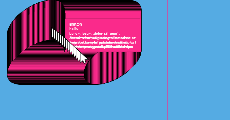
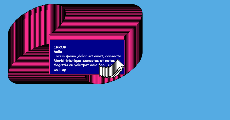
Scalability
Scalability is now uniform. Text scrolls perfectly now.

diff --git a/draw_one_frame.js b/draw_one_frame.js
@@ -1,8 +1,8 @@
-let t = 0.1;
-let trail = 144;
-let consoletext;
-let errors
-let td = 0;
+let t = 0.1;			//from 0 to 1, the length of the mouse trail that will remain active during any one frame
+let trail = 144;		//how many divisions of the trail will be visible. most accurate when it is a multiple of 24
+let consoletext;		//the text that will display in the cosnole window
+// let errors;
+let td = 0;				//should the text be drawn? 0=false 1=true. saves unnecessary drawing time
 
 function preload() {
 	consoletext = loadStrings('console');
@@ -15,17 +15,19 @@ function preload() {
 function draw_one_frame(cur_frac) {
 	background('#55abe3');
 
-	strokeWeight(2);
+	strokeWeight(height/270);
 	
 	//window
+	fill('#fa2a8b');
 	for(let i = 0; i <= trail; i++){
 		let ghost_frac = (cur_frac+=1/trail)%1;
 		if (i == trail) {td = 1;} else {td = 0;}
 		//draw the window (x position, y position, is draw text true, text scroll position)
-		drawWindow(150+ sin(1-ghost_frac*TWO_PI)*120,100+ sin(ghost_frac*TWO_PI)*100,td,floor(cur_frac*2)-1);
+		drawWindow(0.16*width + sin(1-ghost_frac*TWO_PI)*width/8, height/5 + sin(ghost_frac*TWO_PI)*height/6,td,cur_frac);
 	}
 
 	//cursor
+	strokeWeight(2);
 	strokeCap(PROJECT);
 	strokeJoin(ROUND);
 	fill("white");
@@ -35,40 +37,64 @@ function draw_one_frame(cur_frac) {
 		let cur_x = 300+200*sin(ghost_frac*TWO_PI);
 		let cur_y = 200+100*sin(ghost_frac*4*PI);
 
-		drawCursor(cur_x,cur_y);
+		drawCursor(cur_x,cur_y,width/960);
 	}
 
 	if (debugView) {
 		noFill();
-		stroke("red");
+		stroke("pink");
+		strokeWeight(1);
+		for(let i = 0.1; i <= 1; i+=1/12){
+			drawCursor(300+200*sin(i*TWO_PI),200+100*sin(i*4*PI),width/960);
+		}
+		for(let i = 0.1; i <= 1; i+=1/12){
+			drawWindow(
+			0.16*width 	+ 	sin(1-i*TWO_PI)*width/8, 
+			height/5 	+	sin(i*TWO_PI)*height/6);
+		}
+		stroke("darkred");
 		strokeWeight(4);
-		drawCursor(200,200);
-		drawWindow(100,100);
+		drawCursor(300+200*sin(TWO_PI),200+100*sin(4*PI),width/960);
+		drawWindow(0.16*width + sin(1-TWO_PI)*width/8, height/5 + sin(TWO_PI)*height/6,1,1);
 	}
 
 	//glitches
-	stroke('#fa2a8b');
-	line(700, 0, 700, 1500)
+	// stroke('#fa2a8b');
+	// line(700, 0, 700, 1500)
 }
 
 function drawWindow(x,y,td,l){
-	fill('#fa2a8b');
-	rect(x, y, 640/2, 360/2);
-	rect(x+5, y+5, 640/2-10, 36-10);
-	fill('white');
-	textSize(16);
-	textFont('Comic Sans MS');
-	textWrap(CHAR);
+	let border = width/216
+	rect(x, y, width/3, height/3);
+	rect(x+border, y+border, width/3-border*2, height/30);
+	push();
 	if (td == 1) {
+		noStroke();
+		fill('darkblue');
+		rect(x+border, y+border+height/30, width/3-border*2, height/3.4-border);
+		fill('white');
+		textSize(width/60);
+		textFont('Comic Sans MS');
+		textWrap(CHAR);
 		for (let i = 0; i <= consoletext.length; i++){
-			text(consoletext[i],x+20,y+50+i*20,580/2,250/2-i*20);
-			//skip a line for every line the text exceeds the word wrap limit for
-			i += floor(consoletext[i+l].length/38);
+			text(consoletext[i],x+width/48,y+height/10.8+i*height/27,0.3*width,height/4.3-i*height/27);
 		}
+		if (floor(l%(4/24)*100) == 0) {
+			consoletext.push(consoletext[0]);
+			consoletext.shift();
+		}
+		// for (let i = 0; i <= consoletext.length; i++){
+		// 	// text(consoletext,x+width/48,y+height/10.8+i*height/27,0.3*width,height/4.3-i*height/27);
+		// 	//skip a line for every line the text exceeds the word wrap limit for
+		// 	// i += floor(consoletext[i+l].length/38);
+
+		// }
 	}
+	pop();
 }
 
-function drawCursor(x,y){
+function drawCursor(x,y,mouseSize){
+	scale(mouseSize,mouseSize);
 	beginShape();
 	vertex(x+0,y+0);
 	vertex(x+0,y+49.55);
@@ -79,4 +105,5 @@ function drawCursor(x,y){
 	vertex(x+33.8,y+34.1);
 	vertex(x+0,y+0);
 	endShape();
+	scale(1/mouseSize,1/mouseSize);
 }

diff --git a/README.md b/README.md
@@ -4,3 +4,5 @@
 The sketch for my background is inspired by the window ghost trails and other graphical glitches you used to see in old operating systems.
 My initial idea for the aesthetic is distinctly vaporwave and I aim to incorporate lots of glitches and work towards a glowy old LCD feel. However, at the moment, while I am just testing things, the animation has cute pastel visuals that also work surprisingly well.
 While I may not have one clear stylistic vision yet, what I do know is that whatever it is will incorporate glitches, text, retro computer UI and an overall nostalgic feeling.
+## Scalability
+My next task was to parameterize all of the variables so that the whole animation can be scaled up uniformly to the large and extra-large dimensions. Everything from the size of the elements to the stroke size has to match perfectly, so just every variable is now affected by the width and height variables. On top of that, I fixed the text in the window to appear as I had initially planned. The text scrolls down one line at a time, once every four frames. I achieved this by checking if the current frame was a multiple of 4/24 using the modulo function and then taking the first line in the text and putting it at the end if it is. There are only 6 (=24/4) lines, so the text seems to scroll in an infinite loop.
